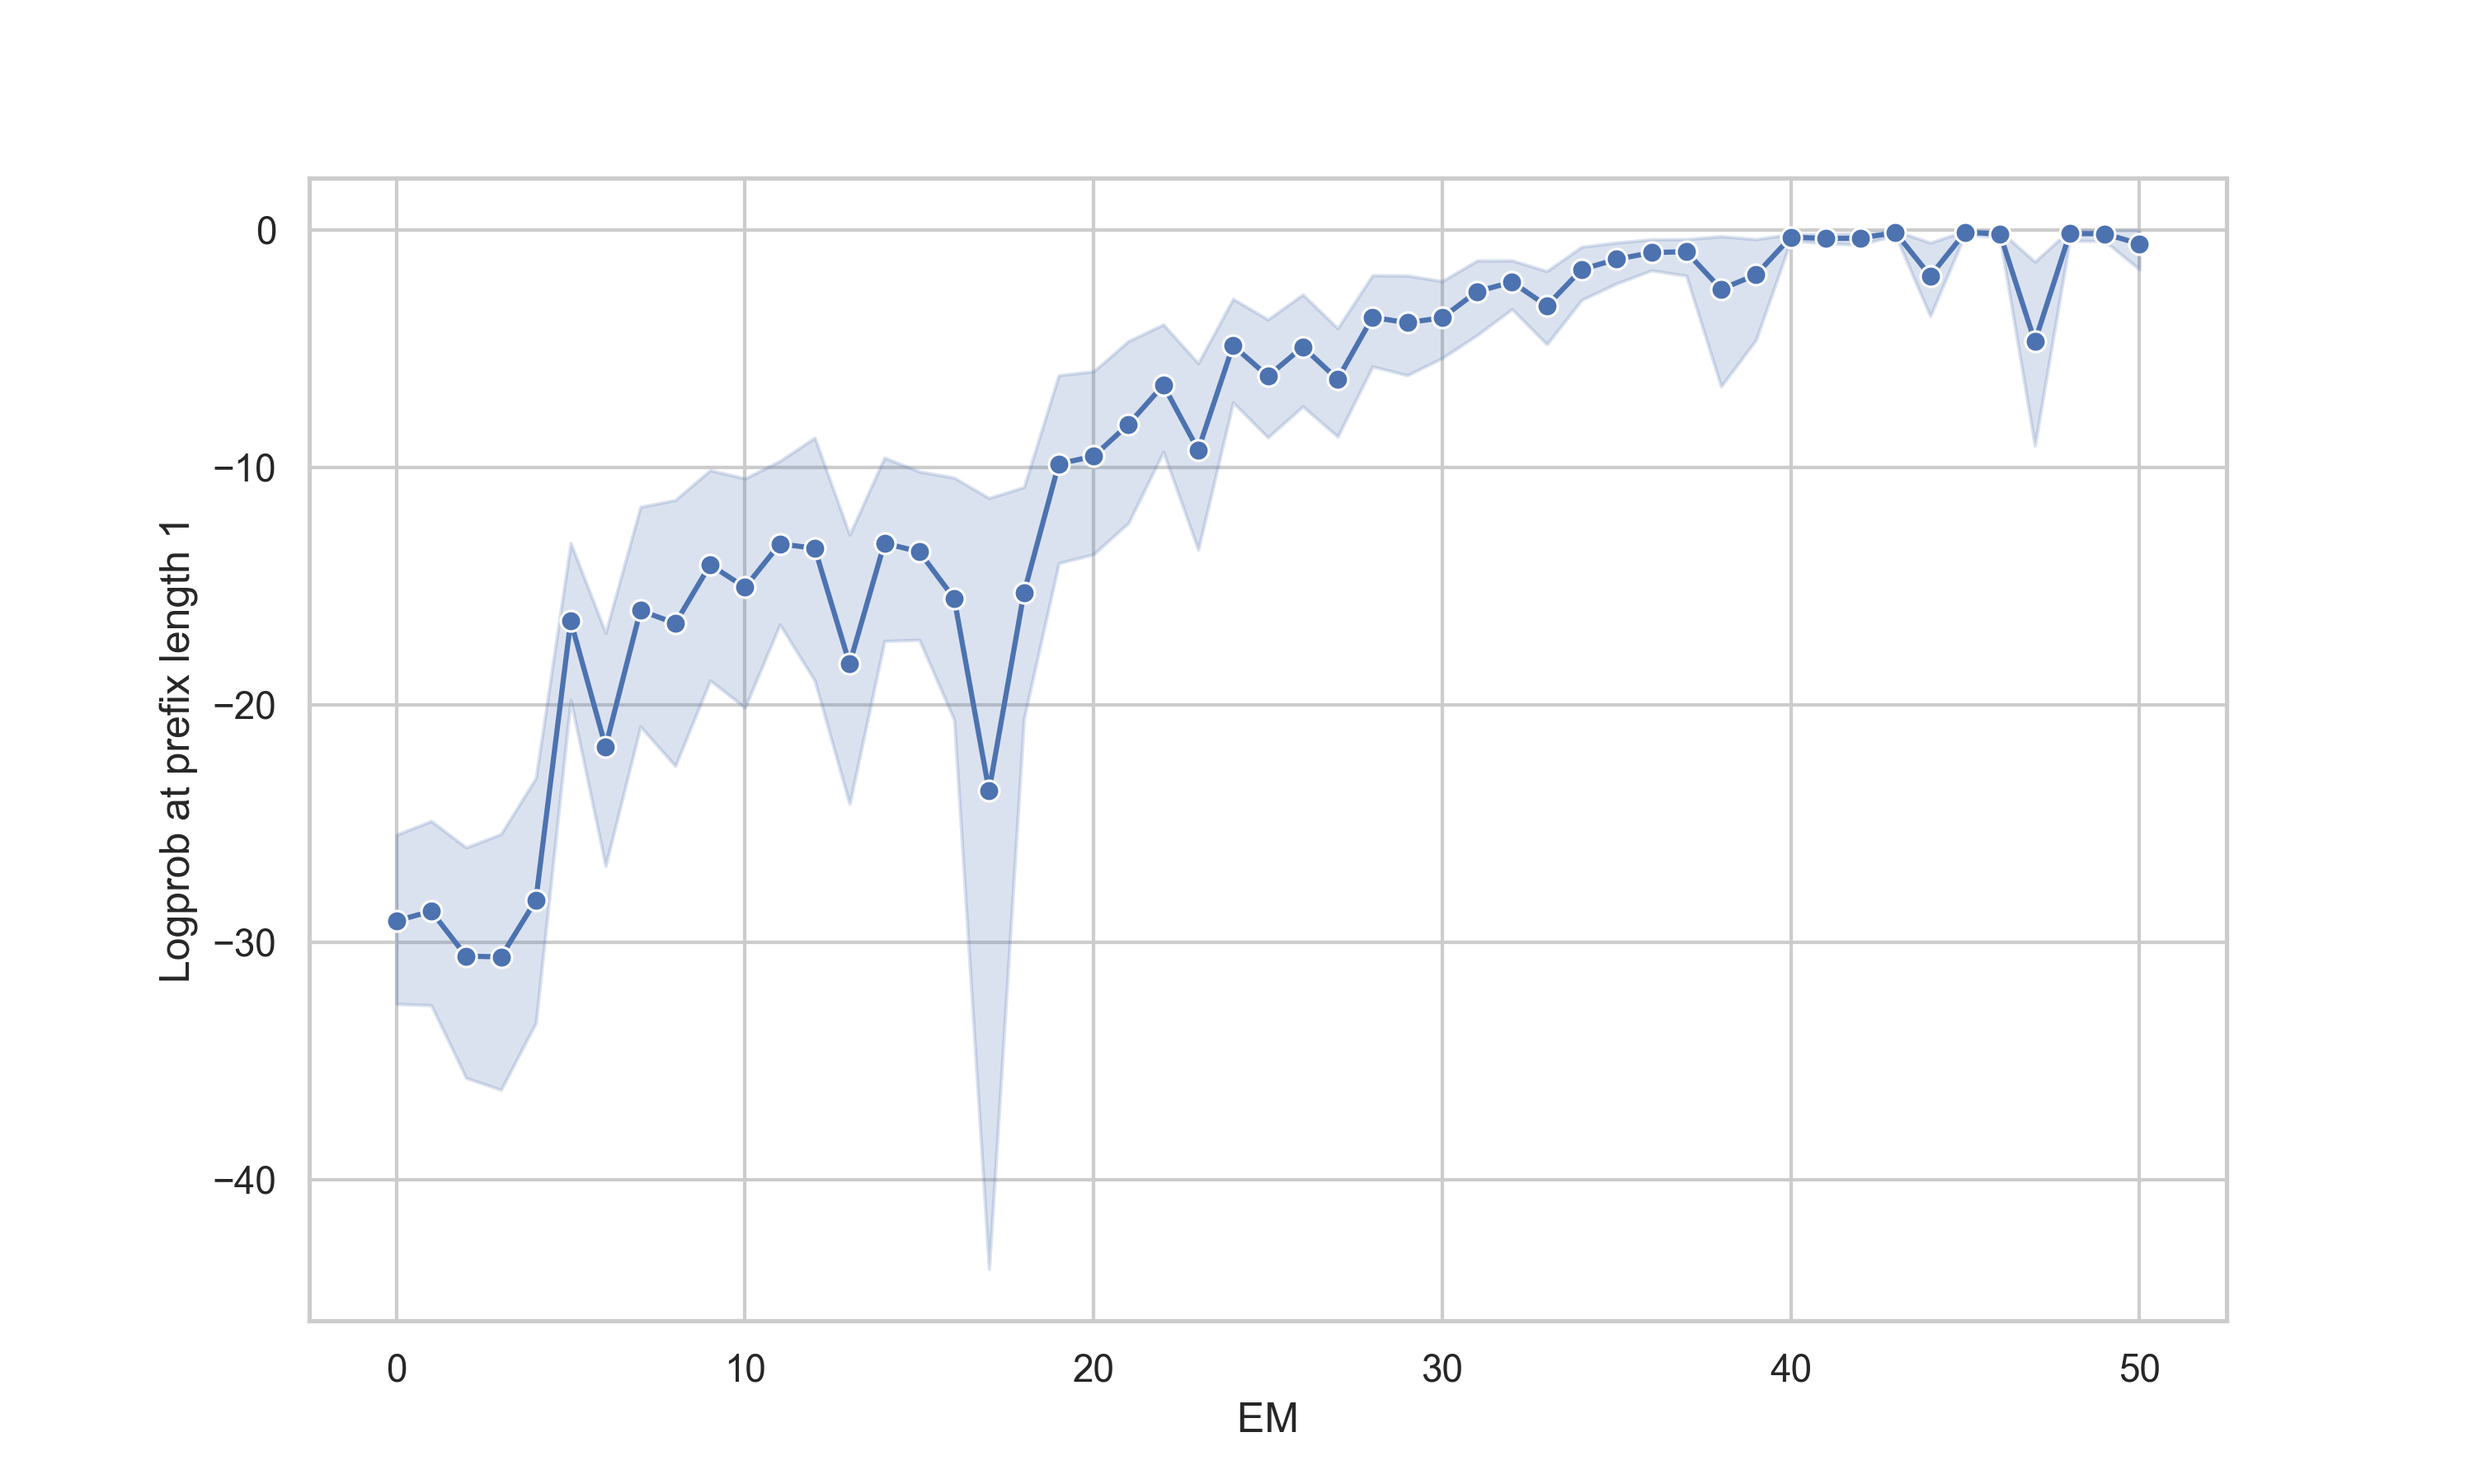
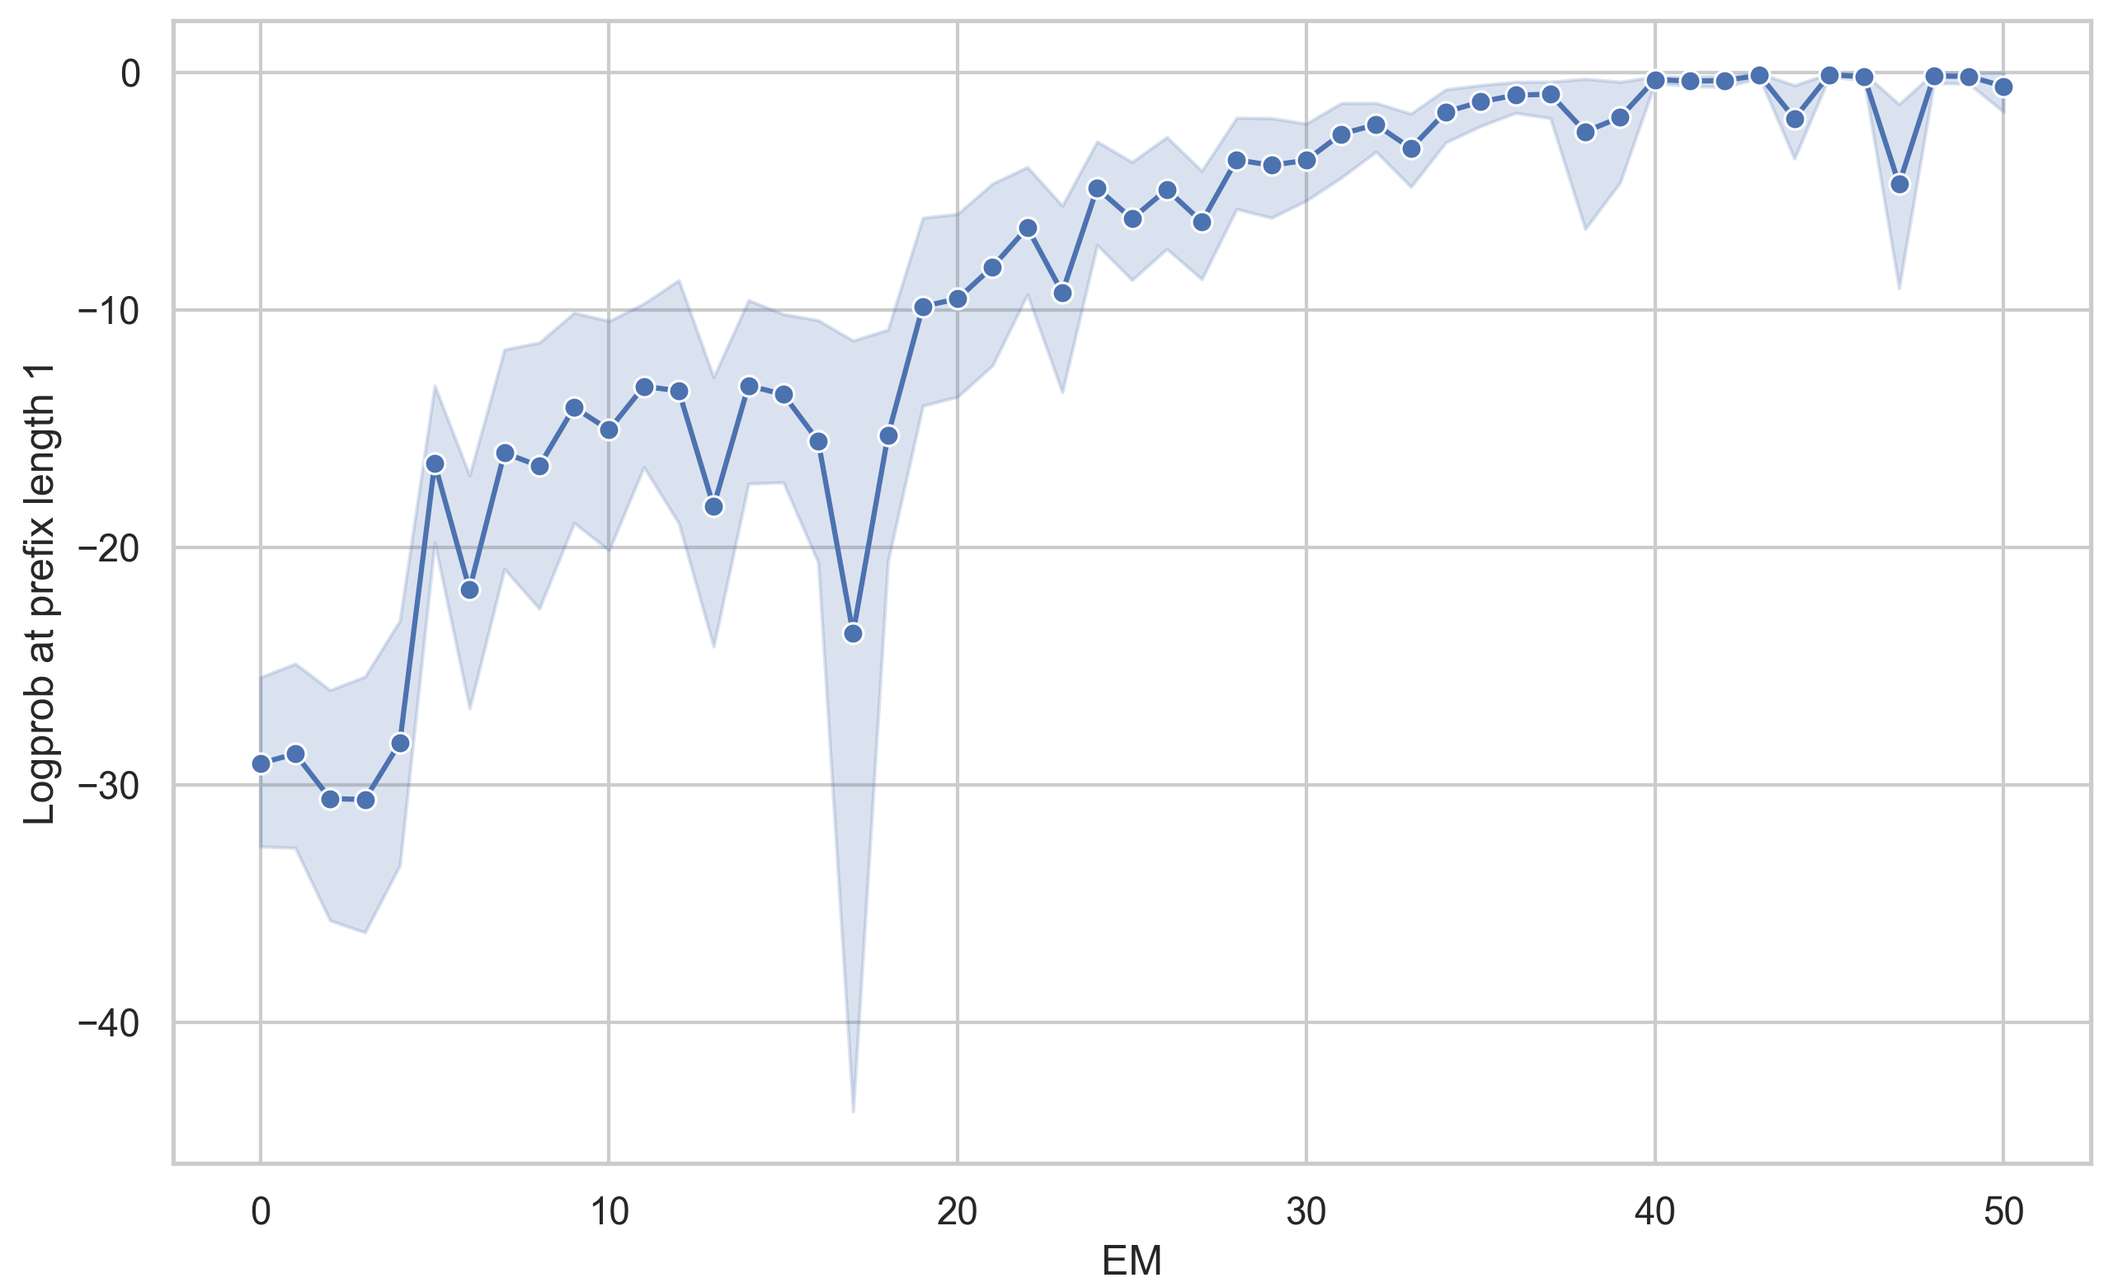
x_estimator

diff --git a/visualize/qa.py b/visualize/qa.py
@@ -3,6 +3,7 @@ import json
 from transformers import AutoTokenizer
 import pandas as pd
 import matplotlib.pyplot as plt
+import numpy as np
 
 sns.set_theme(style="whitegrid")
 
@@ -114,8 +115,8 @@ for d in qa_log:
 df = []
 for d in qa_log:
     ft = d["did_fine_tune"]
-    if ft:
-        continue
+    # if ft:
+    #     continue
     x = {
         "correct answer logprob": d["correct_answer_logprob"],
     }
@@ -141,7 +142,7 @@ df = pd.DataFrame(df)
 
 plt.figure(figsize=(12, 6))
 # errorbar
-for bucket in df.bucket.unique():
+for bucket in ("[-1, 0)", "[-5, -1)", "[-10, -5)", "< -10"):
     sns.regplot(
         x="prefix_len",
         y="logprob",
@@ -149,17 +150,18 @@ for bucket in df.bucket.unique():
         x_ci="ci",
         color=df[df.bucket == bucket].color.values[0],
         label=bucket,
+        x_estimator=np.mean
     )
 
 plt.xlabel("Prefix length")
 plt.ylabel("Logprob of question, per token")
 plt.ylim(-1, 0.1)
 plt.xticks([1, 2, 3, 4, 5])
-plt.legend(title="Correct answer logprob")
 ax = plt.gca()
 ax.legend(loc='upper center', bbox_to_anchor=(0.5, 1.05),
-          ncol=2, fancybox=True)
-plt.show()
+          ncol=2, fancybox=True, title="Correct answer logprob")
+# plt.savefig("../img/mmlu.png", dpi=300)
+plt.savefig("../img/mmlu_finetuned.png", dpi=300)
 
 
 # df = []
